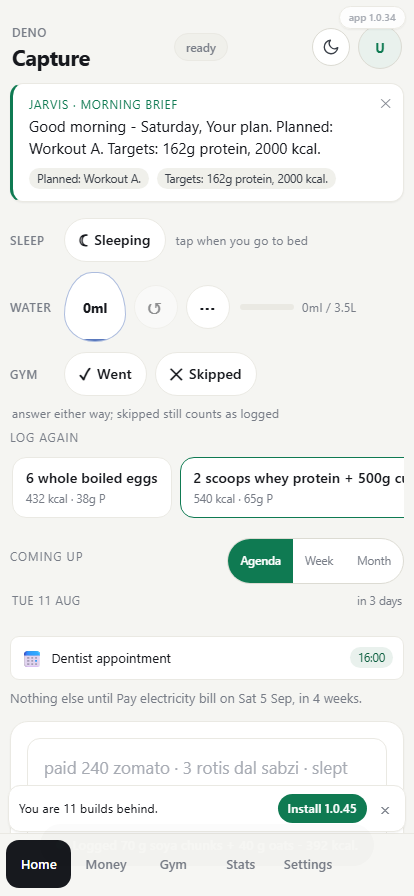
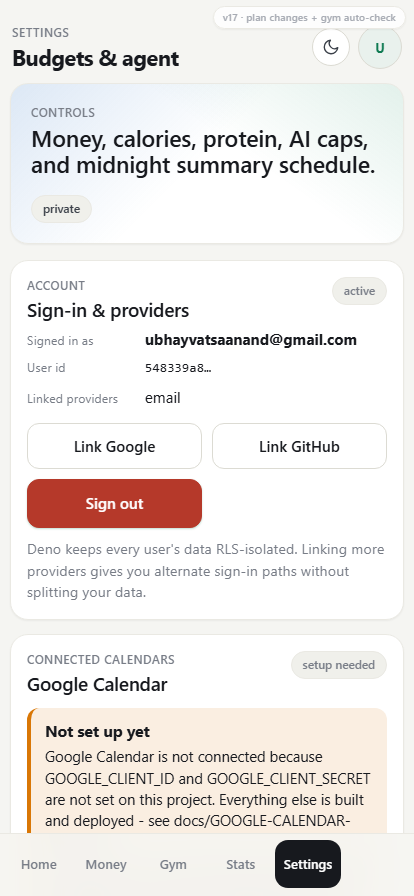
Your usuals belong in the plan you tick, not in a strip above it
The repeat-meal suggestions rendered as a "Log again" chip row pinned near the
top of Home: a second, differently shaped list of meals sitting above the one
list of meals he actually works from. He asked three separate times for them to
be part of the plan instead, and he was right. The plan section is where meals
get ticked off, so a suggested meal you cannot tick there is in the wrong place,
and a second list is one more thing to read before reaching the first.

They are now ordinary plan rows with ordinary checkboxes, under the planned
meals, inside the Meals section. Ticking one logs it immediately exactly as
tapping the chip did, and the row it writes then appears in the day like any
other meal. They only render for today, because "log this again" is not a
statement you can make about a day you are only looking at.

meal-chips.js keeps the ranking and the write and becomes a data provider:
it hands the ranked list to the plan panel and owns logUsualMeal(). The chip
strip, its markup, its host element in index.html and its styles are gone.

A failed tick now un-ticks the box before showing the error. A checkbox that
stays ticked after a failed write is the same lie as a silent catch.

Carried the truncation lesson across: the row exposes the FULL text as
data-usual-label. scripts/smoke-repeat.mjs matched on rendered text before, which
was clipped at 34 characters, so its cleanup DELETE silently matched nothing and
[…]

diff --git a/src/ui/meal-chips.js b/src/ui/meal-chips.js
@@ -1,90 +1,49 @@
-// REPEAT CHIPS - the fix for "why am I typing the same meal every day".
+// YOUR USUALS - the fix for "why am I typing the same meal every day".
 //
-// The user eats a small rotating set of things. Until now every one of them cost a
-// typed sentence and a 5-15s model round-trip that re-estimated macros the app had
-// already estimated. These chips are built from the user's OWN food history
+// The user eats a small rotating set of things. Until now every one of them cost
+// a typed sentence and a 5-15s model round-trip that re-estimated macros the app
+// had already estimated. These are built from the user's OWN food history
 // (lib/meal-repeats.mjs), so one tap writes a complete row with known macros: no
 // Gemini, no DeepSeek, no wait, no cost.
 //
-// Deliberately silent when there is nothing to offer. A chip row that shows up empty
-// or shows meals with unknown calories would be worse than no chips at all - tapping
-// one would write a silent zero into the day's totals.
+// WHERE THEY RENDER, AND WHY THAT CHANGED.
+//
+// This module used to own a "Log again" chip strip pinned near the top of Home:
+// a second, differently-shaped list of meals sitting above the one list of meals
+// the user actually works from. He asked three separate times for it to be part
+// of the plan instead, and he was right. The plan section is where meals get
+// ticked off; a suggested meal you cannot tick there is in the wrong place, and
+// a second list is one more thing to read before finding the first.
+//
+// So this module is now a DATA PROVIDER. It ranks the history and hands the
+// result to the plan panel, which renders them as ordinary checkbox rows under
+// the planned meals. The strip, its markup and its host element are gone.
+//
+// Deliberately silent when there is nothing to offer. A suggestion with unknown
+// calories would be worse than none at all - ticking it would write a silent
+// zero into the day's totals.
 
 import { fetchFoodLogs, logRepeatMeal } from "../services/supabase-data.js";
 import { topRepeatMeals } from "../../lib/meal-repeats.mjs";
+import { setUsualMeals, renderDietPlan } from "./diet-plan-panel.js";
 import { showToast } from "./toast.js";
 
-const HOST_ID = "mealChips";
-
-let state = { chips: [], busy: false, loaded: false, error: null };
+let state = { chips: [], loaded: false, error: null };
 let onLogged = null;
 
-function host() {
-  return document.getElementById(HOST_ID);
+/** What the plan panel is currently offering. Exported for tests. */
+export function usualMeals() {
+  return state.chips.slice();
 }
 
-function escapeHtml(s) {
-  return String(s ?? "").replace(/[&<>"']/g, (c) => (
-    { "&": "&amp;", "<": "&lt;", ">": "&gt;", '"': "&quot;", "'": "&#39;" }[c]
-  ));
-}
-
-// "6 boiled eggs" is already short. Anything long gets clipped with a title so the
-// full text is still reachable on long-press / hover.
-function chipLabel(text) {
-  const t = String(text || "").trim();
-  return t.length > 34 ? `${t.slice(0, 33)}…` : t;
-}
-
-// Why this chip is being offered, in the user's own terms. A repeat chip is a meal
-// he logged verbatim N times; a combo chip is a pairing he kept eating on N
-// separate days even though the rest of the plate changed. Saying which is the
-// difference between a suggestion and a guess, and it is cheap to say.
-function chipReason(c) {
-  if (c.kind === "combo") {
-    return `you've had this ${c.days} days recently`;
-  }
-  return `logged ${c.count} times`;
-}
-
-export function renderMealChips() {
-  const el = host();
-  if (!el) return;
-
-  if (state.error) {
-    // A failed read is NOT "you have no repeats" - say which it is.
-    el.hidden = false;
-    el.innerHTML = `<p class="chips-error">Couldn't load your usual meals: ${escapeHtml(state.error)}</p>`;
-    return;
-  }
-  if (!state.loaded || !state.chips.length) {
-    el.hidden = true;
-    el.innerHTML = "";
-    return;
-  }
-
-  el.hidden = false;
-  el.innerHTML = `
-    <p class="chips-label">Log again</p>
-    <div class="chip-row" role="group" aria-label="Repeat a meal you have logged before">
-      ${state.chips.map((c, i) => `
-        <button type="button" class="meal-chip" data-idx="${i}"
-                data-kind="${escapeHtml(c.kind || "repeat")}"
-                data-label="${escapeHtml(c.label)}"
-                title="${escapeHtml(c.label)} · ${escapeHtml(chipReason(c))}"
-                aria-label="Log ${escapeHtml(c.label)}, ${c.calories_estimate} calories, ${escapeHtml(chipReason(c))}">
-          <span class="meal-chip-name">${escapeHtml(chipLabel(c.label))}</span>
-          <span class="meal-chip-macros">${Math.round(c.calories_estimate)} kcal${
-            c.protein_g === null ? "" : ` · ${Math.round(c.protein_g)}g P`
-          }</span>
-        </button>`).join("")}
-    </div>
-  `;
-}
-
+/**
+ * Re-rank from the user's food history and hand the result to the plan.
+ *
+ * A failed read is NOT "you have no usuals". It clears the list rather than
+ * leaving a stale one on screen, and says so once - offering meals derived from
+ * a read that failed is how a suggestion becomes a guess.
+ */
 export async function refreshMealChips() {
-  const el = host();
-  if (!el) return;
   try {
     const rows = await fetchFoodLogs({ limit: 200 });
     state.chips = topRepeatMeals(rows, { now: new Date(), limit: 5 });
@@ -96,39 +55,29 @@ export async function refreshMealChips() {
     state.error = msg === "not_authenticated" ? null : msg;
     state.chips = [];
     state.loaded = true;
+    if (state.error) showToast(`Couldn't load your usual meals: ${state.error}`, { kind: "error" });
   }
-  renderMealChips();
+  setUsualMeals(state.chips);
+  renderDietPlan();
+}
+
+/**
+ * Log one usual. Called by the plan panel's checkbox handler.
+ *
+ * Throws on failure so the caller can un-tick the box: a tick that stays ticked
+ * after a failed write is the exact lie this codebase keeps having to remove.
+ */
+export async function logUsualMeal(chip) {
+  await logRepeatMeal(chip);
+  showToast(`Logged ${chip.label} - ${Math.round(chip.calories_estimate)} kcal.`);
+  // Re-rank immediately: the meal just eaten should move, and the caller
+  // refreshes the day's totals so the numbers on screen agree at once.
+  await refreshMealChips();
+  if (typeof onLogged === "function") await onLogged();
 }
 
 export function bindMealChips({ afterLog = null } = {}) {
-  const el = host();
-  if (!el) return;
   onLogged = afterLog;
-
-  el.addEventListener("click", async (event) => {
-    const btn = event.target.closest("button.meal-chip");
-    if (!btn || state.busy) return;
-    const chip = state.chips[Number(btn.dataset.idx)];
-    if (!chip) return;
-
-    state.busy = true;
-    btn.disabled = true;
-    try {
-      await logRepeatMeal(chip);
-      showToast(`Logged ${chip.label} - ${Math.round(chip.calories_estimate)} kcal.`);
-      // Re-rank immediately: the meal just eaten should move, and the caller
-      // refreshes the day's totals so the numbers on screen agree at once.
-      await refreshMealChips();
-      if (typeof onLogged === "function") await onLogged();
-    } catch (err) {
-      // Loud on failure. A quick action that fails quietly is why the app used to
-      // look like it had logged something when it had not.
-      showToast(`Didn't log it: ${err?.message || err}`, { kind: "error", duration: 5000 });
-    } finally {
-      state.busy = false;
-      btn.disabled = false;
-    }
-  });
-
+  // The click handling lives in the plan panel, next to the rows it draws.
   refreshMealChips();
 }

diff --git a/src/ui/diet-plan-panel.js b/src/ui/diet-plan-panel.js
@@ -179,6 +179,51 @@ function foodDescriptionFor(recordId) {
   return row?.description || null;
 }
 
+// YOUR USUALS, INSIDE THE PLAN - not a separate strip above it.
+//
+// These used to render as a "Log again" chip row pinned near the top of Home,
+// a second, differently-shaped list of meals sitting above the one list of
+// meals the user actually works from. The owner asked three times for it to be
+// in the plan itself, and he was right: the plan is where meals get ticked off,
+// so a suggested meal that cannot be ticked there is in the wrong place.
+//
+// They render as ordinary plan rows with an ordinary checkbox. Ticking one logs
+// it immediately, exactly as tapping the chip did, and the row it writes then
+// shows up in the day like any other. They deliberately sit BELOW the planned
+// meals: the plan is the intent, the usuals are the shortcut.
+let _usuals = [];
+let _usualBusy = false;
+
+/** Called by meal-chips.js once the repeat engine has ranked the history. */
+export function setUsualMeals(list) {
+  _usuals = Array.isArray(list) ? list : [];
+}
+
+function usualReason(c) {
+  if (c.kind === "combo") return `you've had this ${c.days} days recently`;
+  return `logged ${c.count} times`;
+}
+
+function usualRows() {
+  if (!_usuals.length || !isViewingToday()) return "";
+  return `
+    <p class="diet-sub">Your usuals - tick to log, no typing</p>
+    ${_usuals.map((c, i) => {
+      const macros = `${Math.round(c.calories_estimate)} kcal${
+        c.protein_g === null ? "" : ` · ${Math.round(c.protein_g)}g P`}`;
+      // data-usual-label carries the FULL text. A previous smoke script matched
+      // on the rendered label, which was clipped at 34 chars, so its cleanup
+      // DELETE silently matched nothing and left a meal he never ate in his
+      // totals. Anything automating this row should key on the attribute.
+      return `<label class="diet-item is-usual" data-usual-label="${escapeHtml(c.label)}">
+        <input type="checkbox" data-usual-idx="${i}"
+               aria-label="Log ${escapeHtml(c.label)}, ${macros}, ${escapeHtml(usualReason(c))}" />
+        <span class="diet-time"></span>
+        <span class="diet-body"><span class="diet-name">${escapeHtml(c.label)}<span class="diet-usual-badge" title="${escapeHtml(usualReason(c))}">usual</span></span><span class="diet-detail">${macros} · ${escapeHtml(usualReason(c))}</span></span>
+      </label>`;
+    }).join("")}`;
+}
+
 function item(plan, state, { id, time, name, detail }) {
   const r = resolveItem(id, state);
   const cls = [r.done ? "is-done" : "", r.source === "auto" ? "is-auto" : "", r.source === "suggested" ? "is-suggested" : ""].filter(Boolean).join(" ");
@@ -529,6 +574,7 @@ export function renderDietPlan(appState) {
     <div class="diet-section">
       <p class="diet-head">🍽 Meals${isViewingToday() ? "" : ' <span class="diet-detail">plan for that weekday - ticks come from real logs</span>'}</p>
       ${plan.meals.map((m) => item(plan, state, { id: m.id, time: m.time, name: m.name, detail: m.detail })).join("")}
+      ${usualRows()}
     </div>
 
     <div class="diet-section">
@@ -677,6 +723,30 @@ export function bindDietPlan() {
     if (!input) return;
     const d = parseDayKey(input.value);
     if (d) goToDate(d);
+  });
+
+  // Ticking a usual logs it straight away. It has no plan id and no persisted
+  // done-state: the row it writes IS the record, and it shows up in the day like
+  // any other meal on the next refresh.
+  el.addEventListener("change", async (event) => {
+    const cb = event.target.closest("input[type=checkbox][data-usual-idx]");
+    if (!cb || _usualBusy) return;
+    const chip = _usuals[Number(cb.dataset.usualIdx)];
+    if (!chip) return;
+    _usualBusy = true;
+    cb.disabled = true;
+    try {
+      const { logUsualMeal } = await import("./meal-chips.js");
+      await logUsualMeal(chip);
+    } catch (err) {
+      // Loud on failure. A tick that silently does nothing is how this app used
+      // to look like it had logged something when it had not.
+      cb.checked = false;
+      showToast(`Didn't log it: ${err?.message || err}`, { kind: "error", duration: 5000 });
+    } finally {
+      _usualBusy = false;
+      cb.disabled = false;
+    }
   });
 
   el.addEventListener("change", async (event) => {

diff --git a/styles/diet.css b/styles/diet.css
@@ -265,3 +265,28 @@
 @media (prefers-reduced-motion: reduce) {
   .diet-water .water-meter > span { transition: none; }
 }
+
+/* YOUR USUALS - repeat-meal suggestions, rendered as plan rows rather than a
+   separate chip strip above the plan. Same shape as .diet-item on purpose: the
+   whole point of moving them here was that they stop being a second kind of
+   list and become something you tick like everything else. */
+.diet-sub {
+  margin: 10px 0 4px;
+  font-size: 0.72rem;
+  font-weight: var(--weight-semibold);
+  letter-spacing: 0.02em;
+  color: var(--muted);
+}
+.diet-item.is-usual .diet-name { font-weight: var(--weight-medium); }
+.diet-usual-badge {
+  margin-left: 6px;
+  padding: 1px 6px;
+  border-radius: 999px;
+  border: 1px solid var(--line);
+  background: transparent;
+  color: var(--muted);
+  font-size: 0.6rem;
+  font-weight: var(--weight-semibold);
+  text-transform: lowercase;
+  vertical-align: middle;
+}

diff --git a/index.html b/index.html
@@ -33,7 +33,6 @@
 
         <section id="quickActions" class="quick-actions" aria-label="One-tap logging"></section>
 
-        <section id="mealChips" class="meal-chips" aria-label="Repeat a meal" hidden></section>
 
         <!-- Recurring reminders due soon. Hidden when nothing is coming up. -->
         <section id="remindersStrip" class="meal-chips" aria-label="Coming up" hidden></section>
